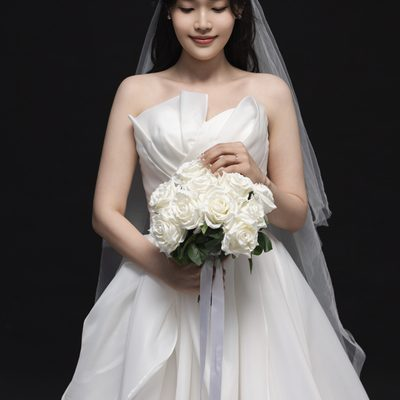
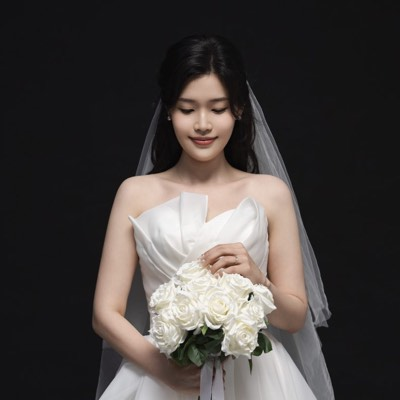
갤러리 썸네일: 얼굴 기준으로 잘라 인물이 가운데 오게
목록 썸네일은 원본을 그냥 가운데 정사각으로 잘라서, 전신컷은 머리가
위로 잘려 나갔습니다 (t03 은 신랑 얼굴이 통째로 빠져 검은 수트만 보임).

macOS Vision 으로 사진 20장의 얼굴 위치를 뽑아 build_assets.py 에
FACE 표로 넣고, 얼굴 무리의 중심이 크롭 위에서 36% 지점에 오도록
잘라냅니다. 머리 위 여백을 조금 남기는 세로 위치입니다.

assets/g13.jpg 은 따로 받은 보정본(옐로 플라워, 앉은 컷)으로 교체.

썸네일 합계 430KB -> 608KB. 크롭이 인물 쪽으로 좁아져 배경 대신
디테일이 늘어난 만큼이고, 그리드는 처음 7장만 로드합니다.

Assisted-by: Claude Code (Opus 5)

diff --git a/tools/faces.swift b/tools/faces.swift
@@ -1,0 +1,27 @@
+import Foundation
+import Vision
+import ImageIO
+import CoreGraphics
+
+for path in CommandLine.arguments.dropFirst() {
+    guard let src = CGImageSourceCreateWithURL(URL(fileURLWithPath: path) as CFURL, nil),
+          let img = CGImageSourceCreateImageAtIndex(src, 0, nil) else {
+        print("\(path)\tERROR"); continue
+    }
+    let w = CGFloat(img.width), h = CGFloat(img.height)
+    let req = VNDetectFaceRectanglesRequest()
+    try? VNImageRequestHandler(cgImage: img, options: [:]).perform([req])
+    let faces = (req.results ?? [])
+    var parts: [String] = []
+    for f in faces {
+        let b = f.boundingBox            // normalized, origin bottom-left
+        let x = b.minX * w
+        let y = (1 - b.maxY) * h         // top-left origin
+        parts.append(String(format: "%.0f,%.0f,%.0f,%.0f", x, y, b.width * w, b.height * h))
+    }
+    print("\(path)\t\(Int(w))x\(Int(h))\t\(faces.count)\t\(parts.joined(separator: " "))")
+}
+
+// build_assets.py 의 FACE 표를 다시 뽑을 때 씁니다.
+//   swift tools/faces.swift assets/g*.jpg
+// 출력: 파일  너비x높이  얼굴수  x,y,w,h ...   (좌상단 기준 픽셀)

diff --git a/build_assets.py b/build_assets.py
@@ -41,6 +41,8 @@ ORDER = [
     (B(""),    "아이보리 수트 - 신부"),
     (SOLO,     "아이보리 수트 - 신랑"),
     # 옐로 플라워
+    # ※ assets/g13.jpg 는 지금 이 파일이 아니라 따로 받은 보정본으로 교체돼 있습니다.
+    #    (앉은 컷). 다시 돌리면 아래 원본으로 되돌아가니 주의.
     (A("_02"), "옐로 플라워 - 두 사람"),
     (A("_11"), "옐로 플라워 - 신랑"),
     # 가든
@@ -51,6 +53,22 @@ ORDER = [
     (A("_09"), "가든 - 신부"),
     (A("_08"), "가든 - 신부"),
 ]
+
+# 썸네일 크롭 기준점 — 각 사진에서 얼굴(들)의 중심. 원본 대비 비율이라 해상도와 무관.
+# macOS Vision 얼굴 인식으로 뽑은 값입니다 (assets/gNN.jpg 기준). 이게 없으면 가운데를
+# 그냥 잘라서 전신컷의 머리가 잘려 나갑니다. 사진을 바꾸면 이 값도 같이 고치세요.
+#   재측정: swift tools/faces.swift assets/g*.jpg
+FACE = [
+    (0.569, 0.213), (0.508, 0.210), (0.435, 0.136), (0.259, 0.236), (0.342, 0.223),
+    (0.482, 0.212), (0.750, 0.188), (0.678, 0.360), (0.553, 0.299), (0.491, 0.243),
+    (0.479, 0.400), (0.495, 0.193), (0.520, 0.319), (0.423, 0.176), (0.511, 0.180),
+    (0.569, 0.187), (0.514, 0.513), (0.504, 0.280), (0.402, 0.352), (0.559, 0.192),
+]
+assert len(FACE) == len(ORDER), "FACE 와 ORDER 개수가 다릅니다"
+
+# 얼굴 무리의 중심이 크롭 위에서 이 지점에 오게 합니다. 0.5 면 얼굴이 정가운데라
+# 머리 위 여백이 답답해 보여서, 위쪽 1/3 즈음에 둡니다.
+HEADROOM = 0.36
 
 COVER = os.path.join(SRC, "KakaoTalk_20260909_232050635.png")   # 표지 — 아치 컷 보정본 (신부측 추천)
 COVER_CROP = (0.08, 0.0, 0.92, 1.0)          # (좌, 상, 우, 하) 비율. 보정본은 이미 타이트해서 좌우만 살짝
@@ -76,11 +94,14 @@ for i, (f, alt) in enumerate(ORDER, 1):
     manifest.append((name, alt, wide))
     # 그리드 썸네일: 정사각 400px (레퍼런스와 동일). 첫 장은 4:3 대표 1200x900 도 추가
     src = Image.open(f).convert("RGB")
+    fx, fy = FACE[i - 1]
     def _crop(im, ratio):
+        """얼굴이 가운데(세로는 위 1/3) 오도록 ratio 비율로 잘라냅니다."""
         w, h = im.size
-        if w / h > ratio:
-            nw = round(h * ratio); x = (w - nw) // 2; return im.crop((x, 0, x + nw, h))
-        nh = round(w / ratio); y = (h - nh) // 2; return im.crop((0, y, w, y + nh))
+        cw, ch = (w, w / ratio) if w / h <= ratio else (h * ratio, h)
+        x = min(max(fx * w - cw / 2, 0), w - cw)
+        y = min(max(fy * h - ch * HEADROOM, 0), h - ch)
+        return im.crop((round(x), round(y), round(x + cw), round(y + ch)))
     _crop(src, 1).resize((400, 400), Image.LANCZOS).save(os.path.join(OUT, f"t{i:02d}.jpg"), "JPEG", quality=82, optimize=True)
     total += os.path.getsize(os.path.join(OUT, f"t{i:02d}.jpg"))
     if i == 1:
